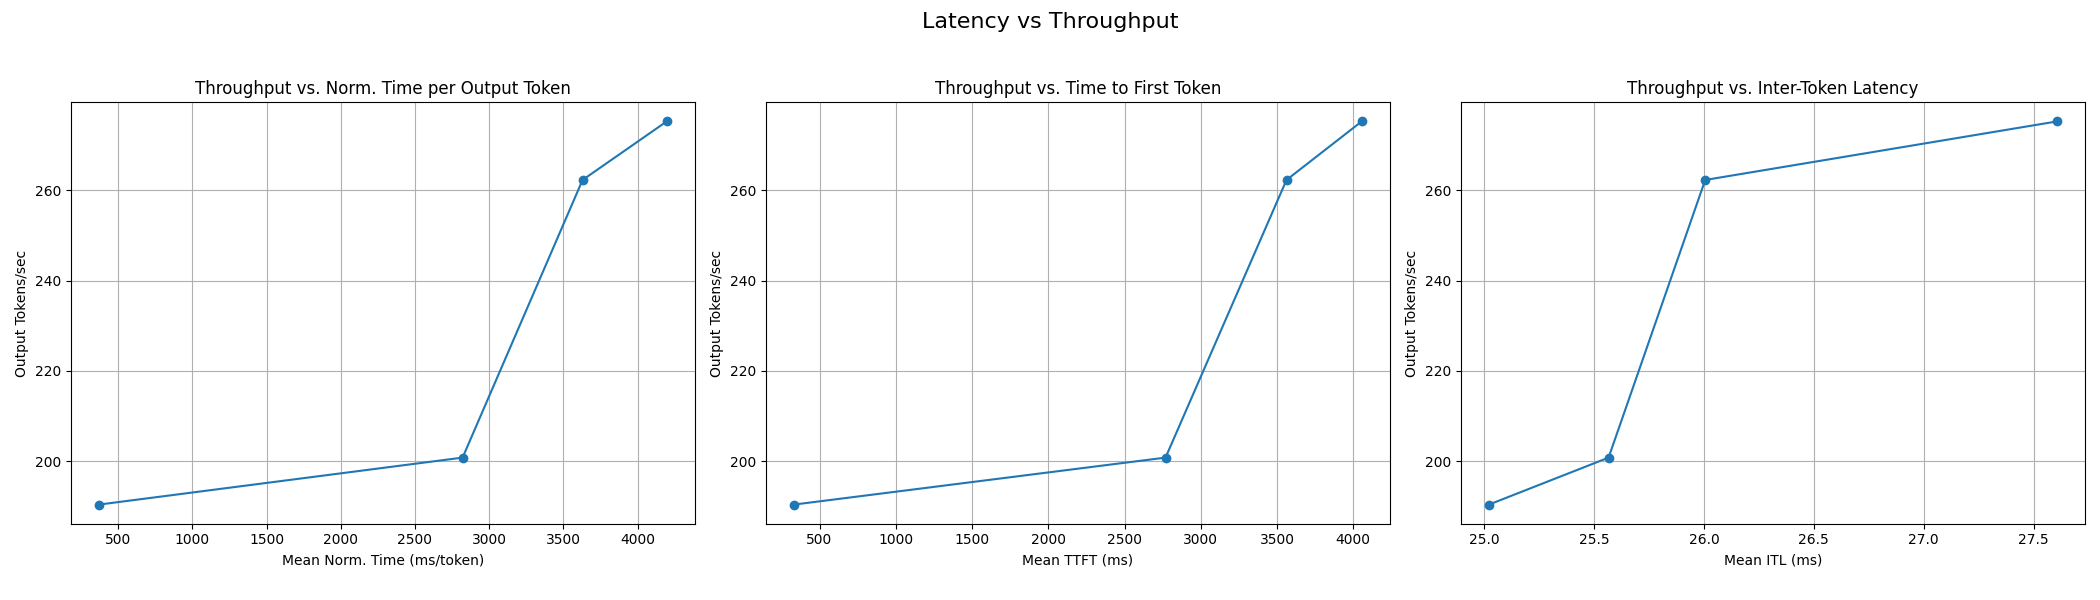
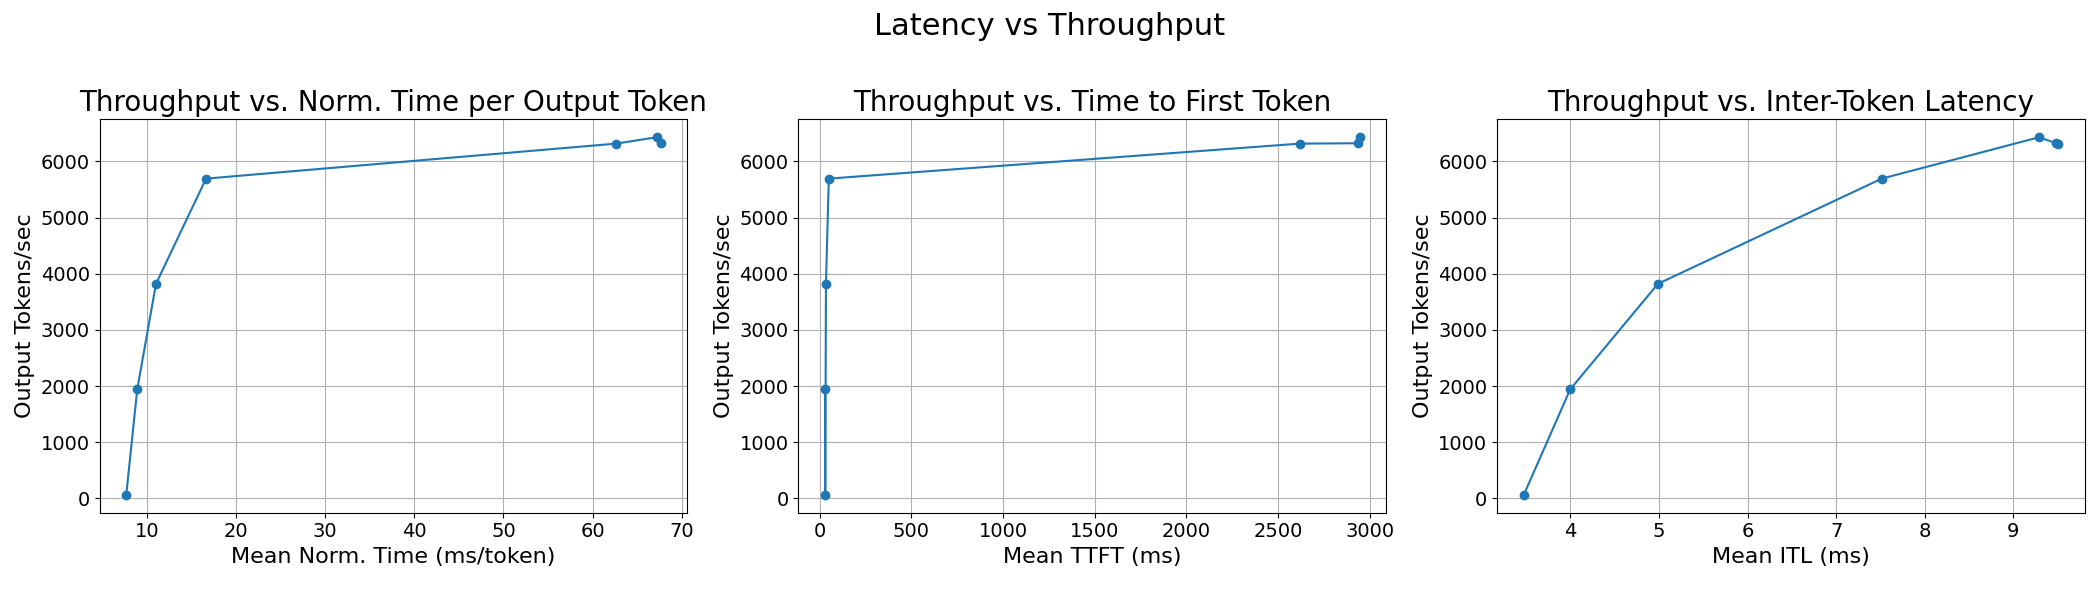
Analyze charts font size increase and paper update (#513)
This PR increases the analyze charts font sizes and updates the paper to
utilize charts from the kubecon demo.

---------

Pull request: Analyze charts font size increase and paper update
This PR increases the analyze charts font sizes and updates the paper to utilize charts from the kubecon demo.

diff --git a/inference_perf/analysis/analyze.py b/inference_perf/analysis/analyze.py
@@ -40,7 +40,11 @@ def _extract_throughput_metric(throughput_data: Dict[str, Any], metric_name: str
 
 
 def _generate_multi_plot(
-    chartset_to_generate: List[List[Dict[str, Any]]], num_charts: int, names: List[str], suptitle: str, output_path: Path
+    chartset_to_generate: List[List[Dict[str, Any]]],
+    num_charts: int,
+    names: List[str],
+    suptitle: str,
+    output_path: Path,
 ) -> None:
     """Generates and saves a plot with multiple subplots."""
     import matplotlib.pyplot as plt
@@ -54,7 +58,7 @@ def _generate_multi_plot(
         return
 
     fig, axes = plt.subplots(1, num_charts, figsize=(7 * num_charts, 6), squeeze=False)
-    fig.suptitle(suptitle, fontsize=16)
+    fig.suptitle(suptitle, fontsize=22)
 
     for charts_to_generate in chartset_to_generate:
         if not charts_to_generate:
@@ -67,9 +71,10 @@ def _generate_multi_plot(
             y_values = [x[1] for x in data]
 
             ax.plot(qps_values, y_values, marker="o", linestyle="-")
-            ax.set_title(chart_info["title"])
-            ax.set_xlabel(chart_info.get("xlabel", "QPS (requested rate)"))
-            ax.set_ylabel(chart_info["ylabel"])
+            ax.set_title(chart_info["title"], fontsize=20)
+            ax.set_xlabel(chart_info.get("xlabel", "QPS (requested rate)"), fontsize=16)
+            ax.set_ylabel(chart_info["ylabel"], fontsize=16)
+            ax.tick_params(axis="both", labelsize=14)
             if not names:
                 ax.legend([f"Report {idx + 1}" for idx in range(len(chartset_to_generate))])
             else:
@@ -92,7 +97,7 @@ def _generate_plot(charts_to_generate: List[Dict[str, Any]], suptitle: str, outp
 
     num_charts = len(charts_to_generate)
     fig, axes = plt.subplots(1, num_charts, figsize=(7 * num_charts, 6), squeeze=False)
-    fig.suptitle(suptitle, fontsize=16)
+    fig.suptitle(suptitle, fontsize=22)
 
     for i, chart_info in enumerate(charts_to_generate):
         ax = axes[0, i]
@@ -101,9 +106,10 @@ def _generate_plot(charts_to_generate: List[Dict[str, Any]], suptitle: str, outp
         y_values = [x[1] for x in data]
 
         ax.plot(qps_values, y_values, marker="o", linestyle="-")
-        ax.set_title(chart_info["title"])
-        ax.set_xlabel(chart_info.get("xlabel", "QPS (requested rate)"))
-        ax.set_ylabel(chart_info["ylabel"])
+        ax.set_title(chart_info["title"], fontsize=20)
+        ax.set_xlabel(chart_info.get("xlabel", "QPS (requested rate)"), fontsize=16)
+        ax.set_ylabel(chart_info["ylabel"], fontsize=16)
+        ax.tick_params(axis="both", labelsize=14)
         ax.grid(True)
 
     fig.tight_layout(rect=(0, 0.03, 1, 0.95))
@@ -195,7 +201,11 @@ def analyze_reports(report_dirs: List[str], analysis_dir: Optional[str] = None) 
                         else:
                             qps_vs_ttft.append((qps, ttft))
 
-                    ntpot = _extract_latency_metric(latency_data, "normalized_time_per_output_token", convert_to_ms=True)
+                    ntpot = _extract_latency_metric(
+                        latency_data,
+                        "normalized_time_per_output_token",
+                        convert_to_ms=True,
+                    )
                     if ntpot is not None:
                         if concurrency:
                             concurrency_vs_ntpot.append((concurrency, ntpot))

diff --git a/tests/required/apis/test_chat.py b/tests/required/apis/test_chat.py
@@ -98,9 +98,7 @@ async def test_multimodal_heartbeat_fires_on_interval(caplog: Any) -> None:
 
     # Drive monotonic forward by the configured interval on every call so each
     # to_request_body crosses the heartbeat boundary.
-    fake_time: Iterator[float] = iter(
-        (i * chat_module._MULTIMODAL_PROGRESS_LOG_INTERVAL_SEC for i in range(1, 100))
-    )
+    fake_time: Iterator[float] = iter((i * chat_module._MULTIMODAL_PROGRESS_LOG_INTERVAL_SEC for i in range(1, 100)))
 
     caplog.set_level(logging.INFO, logger=chat_module.__name__)
     with patch("inference_perf.apis.chat.time.monotonic", side_effect=lambda: next(fake_time)):

diff --git a/paper/paper.md b/paper/paper.md
@@ -97,7 +97,7 @@ The main contribution of `inference-perf` is to provide a standardized model-ser
 
 ### Latency
 
-- Time per request (e2e request latency)  
+- Time per request (e2e Request Latency)
 - Time to first token (TTFT)  
 - Time per output token (TPOT)  
 - Normalized time per output token (NTPOT)
@@ -110,7 +110,7 @@ Price-performance metrics below are not directly reported by inference-perf but 
 - Price per million input tokens  
 - Throughput per dollar
 
-The above metrics can also be plotted into charts using the analyze command in the tool at various request rates (QPS) to understand how the latency and throughput scales with the load as shown in the below charts. 
+The above metrics can also be plotted into charts using the analyze command in the tool at various request rates (QPS) to understand how the latency and throughput scales with the load. The charts below demonstrate benchmarks run on the llama3.1-8b model with NVIDIA H100 GPUs on vLLM version v0.11.0. Further details of the benchmark run and other similar examples can be found in the demos section of the source repository [@inference-perf-demos].
 
 ![Throughput vs QPS](assets/throughput_vs_qps.png)
 